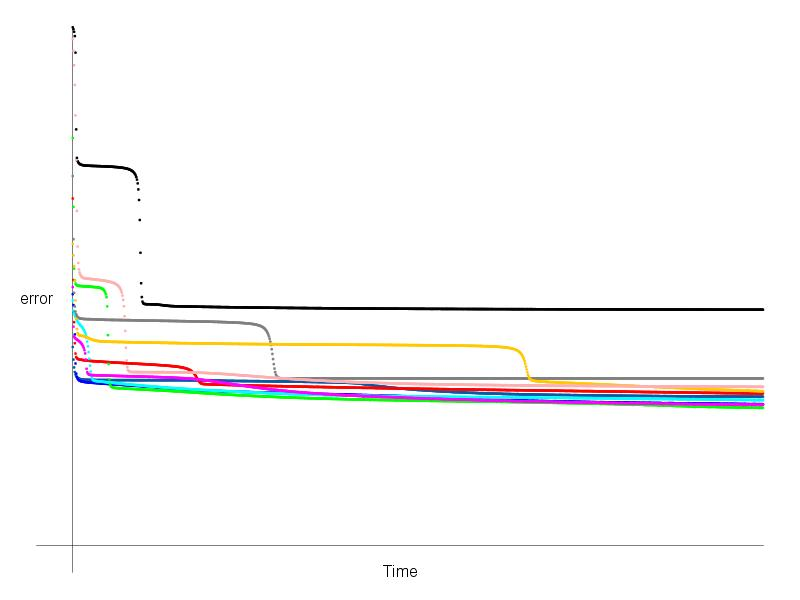
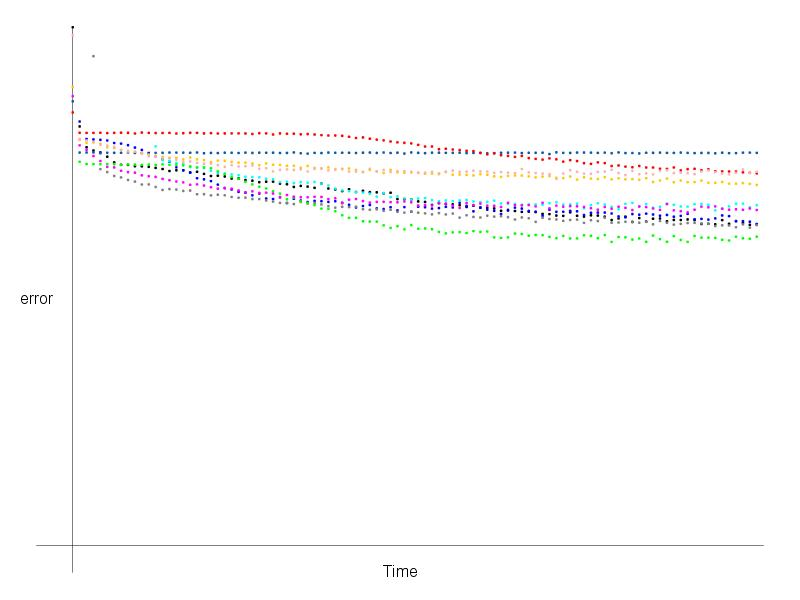
Phil param changes

Changed region(s): [[0.0625, 0.45, 0.9688, 0.69], [0.0938, 0.21, 0.9375, 0.42], [0.4062, 0.21, 0.5, 0.24]]

diff --git a/src/multiLayerPerceptron/MLPTester.java b/src/multiLayerPerceptron/MLPTester.java
@@ -13,7 +13,8 @@ public class MLPTester{
 		"pima-indians-diabetes","cmc","fertility","heart","glass"};
 
 	static enum Algs{Backprop, EvolutionaryStrategy, DiffEv, GeneticAlg};
-        private static int numFolds = 3;
+
+	private static int numFolds = 10;
 
 	// main()
 	public static void main(String[] args) {
@@ -28,7 +29,7 @@ public class MLPTester{
 		for(int file=0;file<10;file++){
 
 			// to skip all but one dataset, for testing
-			if(file != 0)
+			if(file != 9)
 				continue;
 
 			ArffReader dataFile = new ArffReader(filelist[file]+".arff");
@@ -65,14 +66,14 @@ public class MLPTester{
 			for(Algs alg: Algs.values()){ // loop through all the algorithms
 
 				// to skip an algorithm for testing
-				if(alg==Algs.EvolutionaryStrategy);
-					//continue;// not yet implemented
-				if(alg==Algs.GeneticAlg)
-					continue;
 				if(alg==Algs.Backprop)
 					continue;
-                                if(alg==Algs.DiffEv)
-                                        continue;
+				if(alg==Algs.EvolutionaryStrategy)
+					continue;
+        //if(alg==Algs.DiffEv)
+        //  continue;
+				if(alg==Algs.GeneticAlg)
+					continue;
 
 				String algname=(alg==Algs.Backprop? "Backpropogation": (alg==Algs.EvolutionaryStrategy? "MuLambda":
 								(alg==Algs.DiffEv? "Differential Evolution": "GeneticAlg")));
@@ -86,13 +87,11 @@ public class MLPTester{
 
 				int[] right=new int[numFolds];
 				int[] wrong=new int[numFolds];
-				int color=0;
 
-				double scale=0;
 				for(int fold=0;fold<numFolds;fold++){
 					//System.out.println("\nFold "+(fold+1));
 
-					setPenColor(colorlist[color++%numFolds]);
+					setPenColor(colorlist[fold%colorlist.length]);
 
 					int ntests=examples/numFolds;
 					int ntrains=examples-ntests;
@@ -123,21 +122,21 @@ public class MLPTester{
 					///////////////////////////////////////////////////////////////
 					// send the network the training data and train it.
 
-					System.out.println("training on examples "+firstTrainIndex+"-"+lastTrainIndex);
+					//System.out.println("training on examples "+firstTrainIndex+"-"+lastTrainIndex);
 
 					Network net=null;
 					switch(alg){
 						case Backprop:
-							net=new BackpropNetwork(sizes,scale);
+							net=new BackpropNetwork(sizes);
 							break;
 						case EvolutionaryStrategy:
 							net=new EvolutionaryStrategy(sizes);
 							break;
 						case DiffEv:
-							net=new DiffEvNetwork(sizes,scale);
+							net=new DiffEvNetwork(sizes);
 							break;
 						case GeneticAlg:
-							net=new GeneticAlgNetwork(sizes,scale);
+							net=new GeneticAlgNetwork(sizes);
 							break;
 					}
 
@@ -147,7 +146,7 @@ public class MLPTester{
 					// test using simply the net.feedForward function, then choose the output node
 					// with the highest number (they are all between 0 and 1 if sigmoid activation)
 
-					System.out.println("testing on examples "+firstTestIndex+"-"+lastTestIndex);
+					//System.out.println("testing on examples "+firstTestIndex+"-"+lastTestIndex);
 					right[fold]=0;
 					wrong[fold]=0;
 					for(int i=0;i<ntests;i++){
@@ -165,9 +164,9 @@ public class MLPTester{
 							wrong[fold]++;
 					}
 
-					System.out.println("fold: "+(fold+1)+" right: "+right[fold]+" wrong: "+wrong[fold]);
+					System.out.println("fold: "+(fold+1)+", right: "+right[fold]+", wrong: "+wrong[fold]+
+									", "+(double)right[fold]/(right[fold]+wrong[fold])*100+"%");
 
-					scale=net.scale;
 				}
 
 				double mean=0;

diff --git a/src/multiLayerPerceptron/BackpropNetwork.java b/src/multiLayerPerceptron/BackpropNetwork.java
@@ -6,9 +6,11 @@ import static multiLayerPerceptron.StdDraw.*;
 
 public class BackpropNetwork extends Network{
 
+	static double scale=0;
+
 	double[][][] v; //velocity for using momentum
 
-	BackpropNetwork(int[] sizes, double scale){
+	BackpropNetwork(int[] sizes){
 		super(sizes);
 
 		v=new double[layers][][]; // just need to add the velocity initalization
@@ -28,6 +30,19 @@ public class BackpropNetwork extends Network{
 		double eta=parameters[1];
 		double mu =parameters[2];
 
+		double[][] inputCopy=new double[input.length][input[0].length];
+		double[][] outputCopy=new double[output.length][output[0].length];
+
+
+		for(int i=0;i<input.length;i++){
+			//System.arraycopy(input[i], 0, inputCopy[i], 0, input[0].length);
+			for(int j=0;j<input[0].length;j++)
+				inputCopy[i][j]=input[i][j];
+			//System.arraycopy(output[i], 0, outputCopy[i], 0, output[0].length);
+			for(int j=0;j<output[0].length;j++)
+				outputCopy[i][j]=output[i][j];
+		}
+
 		int size=input.length;
 		if(size==0 || size != output.length)
 			throw new RuntimeException("Input number != Output number (or zero)");
@@ -37,17 +52,20 @@ public class BackpropNetwork extends Network{
 			throw new RuntimeException("Output size doesn't match network");
 
 
+
 		for(int e=0;e<epochs;e++){
-			shuffle(input,output,size);
 			double error=0;
+			shuffle(inputCopy,outputCopy,size);
 			for(int i=0;i<size;i++){
-				backProp(input[i],output[i],eta,mu);
-				error+=ssCost(feedForward(input[i]),output[i]);
+				backProp(inputCopy[i],outputCopy[i],eta,mu);
+				error+=ssCost(feedForward(inputCopy[i]),outputCopy[i]);
 			}
 
-			if(scale==0)//for graph
+			if(scale==0){//for graph
 				scale=error/size;
-			//System.out.println(error/trains);
+				//System.out.println("scale: "+scale);
+			}
+			//System.out.println(error);
 			point(map(e,0,epochs,.05,1),map(error/size,0,scale,.05,1));//graph
 		}
 	}

diff --git a/src/multiLayerPerceptron/DiffEvNetwork.java b/src/multiLayerPerceptron/DiffEvNetwork.java
@@ -16,7 +16,7 @@ public class DiffEvNetwork extends Network{
 
 	int nWeightsBiases; // stores the total number of weights and biases
 
-	DiffEvNetwork(int[] sizes, double scale){
+	DiffEvNetwork(int[] sizes){
 		super(sizes);
 
 		nWeightsBiases=0;
@@ -32,13 +32,6 @@ public class DiffEvNetwork extends Network{
 		double beta=parameters[2];
 		double pi  =parameters[3];
 		int size=input.length;
-		if(size==0 || size != output.length)
-			throw new RuntimeException("Input number != Output number (or zero)");
-		if(input[0].length != nInputs)
-			throw new RuntimeException("Input size doesn't match network");
-		if(output[0].length != nOutputs)
-			throw new RuntimeException("Output size doesn't match network");
-
 
 		//initialize population. Each member is a bunch of weights and biases.
 		Member[] population=new Member[npop];
@@ -73,7 +66,7 @@ public class DiffEvNetwork extends Network{
 					fm=fo; //fm always has the lesser value, for the graph below
 				}
 
-				point(map(generation,0,maxGen,.05,1),map(fm,0,.5,.05,1));
+				point(map(generation,0,maxGen,.05,1),map(fm,0,.8,.05,1));
 				//System.out.println(fm);
 			}
 		}

diff --git a/src/multiLayerPerceptron/GeneticAlgNetwork.java b/src/multiLayerPerceptron/GeneticAlgNetwork.java
@@ -21,7 +21,7 @@ public class GeneticAlgNetwork extends Network {
     ArrayList<Double> populationFitness = new ArrayList<>();
     int nWeightsBiases; // stores the total number of weights and biases
 
-    GeneticAlgNetwork(int[] sizes, double scale) {
+    GeneticAlgNetwork(int[] sizes) {
         super(sizes);
 
         nWeightsBiases = 0;

diff --git a/src/multiLayerPerceptron/EvolutionaryStrategy.java b/src/multiLayerPerceptron/EvolutionaryStrategy.java
@@ -345,8 +345,4 @@ public class EvolutionaryStrategy extends Network {
         }
         return y;
     }
-
-    double getScale() {
-        return scale;
-    }
 }

diff --git a/src/multiLayerPerceptron/Network.java b/src/multiLayerPerceptron/Network.java
@@ -17,8 +17,6 @@ class Network{
 	int layers;		// sizes.length
 	int nInputs, nOutputs;
 
-	double scale;
-
 	double[][][] w;
 	double[][]   b;
 
